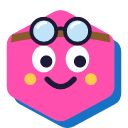
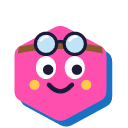
Émojis Discord : même cadre pour tous (Hexa à la même taille avec ou sans chapeau)
Claude-Session: https://claude.ai/code/session_01HhUWxmnWRoWstuHx17D8Pf

diff --git a/deploy/discord/emojis/gen.py b/deploy/discord/emojis/gen.py
@@ -21,7 +21,7 @@ E = {
   "hexa_mdr": cheeks() + stroke("M16 35 Q22 28 28 35", 3.2) + stroke("M36 35 Q42 28 48 35", 3.2)
      + f'<path d="M21 44 Q32 60 43 44Z" fill="{INK}" stroke="{INK}" stroke-width="2.4" stroke-linejoin="round"/><path d="M26 51 Q32 56 38 51 Q32 53 26 51Z" fill="#ff7cc2"/>'
      + tear(9, 29, 0.9) + tear(55, 29, 0.9),
-  "hexa_bot": f'<path d="M32 6 L32 -7" stroke="{INK}" stroke-width="2.8" stroke-linecap="round"/><circle cx="32" cy="-10.5" r="4.3" fill="{YEL}" stroke="{INK}" stroke-width="2.2"/>'
+  "hexa_bot": f'<path d="M32 6 L32 -3" stroke="{INK}" stroke-width="2.8" stroke-linecap="round"/><circle cx="32" cy="-6.5" r="4.3" fill="{YEL}" stroke="{INK}" stroke-width="2.2"/>'
      + f'<rect x="-4.5" y="30" width="6.5" height="14" rx="2.4" fill="#b4bfcd" stroke="{INK}" stroke-width="1.8"/><rect x="65.5" y="34" width="6.5" height="14" rx="2.4" fill="#8f9bab" stroke="{INK}" stroke-width="1.8"/>'
      + "BODY" + f'<rect x="8" y="25.5" width="48" height="19" rx="8" fill="{INK}"/><rect x="15" y="29.5" width="11" height="11" rx="3.5" fill="#8be9ff"/><rect x="38" y="29.5" width="11" height="11" rx="3.5" fill="#8be9ff"/>'
      + f'<circle cx="12" cy="51" r="3.5" fill="{YEL}" opacity=".9"/><circle cx="52" cy="51" r="3.5" fill="{YEL}" opacity=".9"/>' + stroke("M23.5 50 L27 53.5 L37 53.5 L40.5 50"),
@@ -32,11 +32,11 @@ E = {
   "hexa_gg": eyes() + cheeks() + stroke("M22 45 Q32 57 42 45")
      + f'<path d="M14 6 L20 -6 L26 2 L32 -9 L38 2 L44 -6 L50 6 Z" fill="{YEL}" stroke="{INK}" stroke-width="2" stroke-linejoin="round"/><circle cx="32" cy="-9" r="2.2" fill="{PINK}" stroke="{INK}" stroke-width="1.2"/><circle cx="20" cy="-6" r="1.8" fill="{BLUE}" stroke="{INK}" stroke-width="1"/><circle cx="44" cy="-6" r="1.8" fill="{BLUE}" stroke="{INK}" stroke-width="1"/>',
 }
-# Cadre au plus près (lisible à 32 px) ; de la place en haut seulement pour un chapeau ou une antenne.
-BOX = {"hexa_bob": "-8 -13 86 86", "hexa_gg": "-6 -13 82 85", "hexa_bot": "-8 -17 85 89"}
+# Un seul cadre pour tous : Hexa a la même taille et la même place sur chaque émoji, avec ou sans chapeau.
+BOX = "-10 -13 89 89"
 def mascot(name, inner):
     content = inner.replace("BODY", body()) if "BODY" in inner else body() + inner
-    return f'<svg xmlns="http://www.w3.org/2000/svg" width="128" height="128" viewBox="{BOX.get(name, "-3 -1 74 76")}">{content}</svg>'
+    return f'<svg xmlns="http://www.w3.org/2000/svg" width="128" height="128" viewBox="{BOX}">{content}</svg>'
 for n, inner in E.items(): open(f"{OUT}/{n}.svg", "w").write(mascot(n, inner))
 # Médailles : hexagone métallique, ruban, étoile
 MED = {"medaille_bronze": ("#f2c79f", "#d69a63", "#a86a35"), "medaille_argent": ("#f3f6fa", "#b9c3d0", "#8994a3"), "medaille_or": ("#ffe680", "#f5c518", "#c99a12")}
